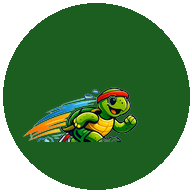
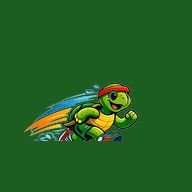
Fix Update,Impostazioni e Loghi
- Fix Vari

diff --git a/TurboTartaruga.html b/TurboTartaruga.html
@@ -196,7 +196,7 @@ input[type=range]::-webkit-slider-thumb{-webkit-appearance:none;width:22px;heigh
 <!-- WELCOME SCREEN -->
 <div id="screen-welcome" class="screen active">
   <div style="min-height:100vh;background:linear-gradient(155deg,#1B5E20,#2E7D32,#43A047,#66BB6A);display:flex;flex-direction:column;align-items:center;justify-content:center;text-align:center;padding:40px 24px;color:#fff">
-    <img src="logo-app.png" alt="TurboTartaruga" style="width:min(85vw,340px);animation:bnc 2s ease infinite alternate;margin-bottom:8px;filter:drop-shadow(0 4px 16px rgba(0,0,0,.25))">
+    <img src="logo-app.png" alt="TurboTartaruga" style="width:min(82vw,300px);max-height:42vh;object-fit:contain;animation:bnc 2s ease infinite alternate;margin-bottom:8px;filter:drop-shadow(0 4px 16px rgba(0,0,0,.25))">
     <p style="font-size:13px;opacity:.72;margin-bottom:48px;line-height:1.6;max-width:280px">Il tuo coach di fitness amichevole.<br>Breve, divertente, accessibile a tutti.</p>
     <button onclick="go('onboarding')"
       style="background:#fff;color:#1B5E20;border:none;border-radius:100px;padding:18px 38px;font-family:var(--ft);font-size:18px;font-weight:bold;cursor:pointer;box-shadow:0 6px 24px rgba(0,0,0,.2);transition:transform .15s"
@@ -264,7 +264,7 @@ input[type=range]::-webkit-slider-thumb{-webkit-appearance:none;width:22px;heigh
 <!-- HOME -->
 <div id="screen-home" class="screen">
   <div class="home-hero">
-    <img src="logo-turtle.png" alt="" style="height:min(18vw,72px);margin-bottom:6px;filter:drop-shadow(0 2px 8px rgba(0,0,0,.15))">
+    <img src="logo-turtle.png" alt="" style="height:clamp(70px,22vw,110px);margin-bottom:4px;filter:drop-shadow(0 3px 10px rgba(0,0,0,.25));display:block;margin-left:auto;margin-right:auto">
     <h2 id="home-greeting">Ciao!</h2><p id="home-phrase">Pronto per il tuo allenamento?</p>
     <div class="streak-chip">🔥 <span id="home-streak">0</span> giorni di fila!</div>
   </div>
@@ -531,7 +531,7 @@ input[type=range]::-webkit-slider-thumb{-webkit-appearance:none;width:22px;heigh
   <div class="hdr"><button class="hdr-back" onclick="go('home')">←</button><h1>🏅 Badge & XP</h1></div>
   <div class="scrollable">
     <div style="background:linear-gradient(135deg,var(--g4),var(--bg2));padding:18px;text-align:center;margin-bottom:12px">
-      <img src="logo-turtle.png" alt="" style="height:min(18vw,72px);margin-bottom:6px">
+      <img src="logo-turtle.png" alt="" style="height:clamp(60px,18vw,90px);margin-bottom:6px;display:block;margin-left:auto;margin-right:auto">
       <div style="font-family:var(--ft);font-size:19px;font-weight:bold" id="prf-name">-</div>
       <div style="font-size:var(--fs-xs);color:var(--tmid);margin-top:3px" id="prf-sub">-</div>
       <div class="level-badge mt10" id="prf-level">🥚 Tartarughina</div>
@@ -1958,7 +1958,16 @@ load();applyTheme();applyView();syncToggles();T.dur=12;
 if(P.name){
   if(!S.plan||S.plan.length===0)generatePlan();
   updateStreak();
-  const fabEl=document.getElementById('fab');if(fabEl){fabEl.classList.remove('fab-hidden');fabEl.style.display='flex';}
+  const fabEl=document.getElementById('fab');
+  if(fabEl){
+    fabEl.classList.remove('fab-hidden');
+    fabEl.style.cssText='display:flex!important;visibility:visible!important;opacity:1!important';
+  }
+  // Extra: force repaint after 100ms for Android Chrome
+  setTimeout(()=>{
+    const f=document.getElementById('fab');
+    if(f){f.style.display='none';void f.offsetHeight;f.style.display='flex';}
+  },150);
   go('home');
 }else go('welcome');
 
@@ -1998,9 +2007,22 @@ function checkForUpdate(){
       if(btn)btn.textContent='✅ Ok';
       setTimeout(()=>{if(btn)btn.textContent='🔄 Verifica';if(status)status.textContent='Tocca per verificare';},3000);
     }
-  }).catch(()=>{
-    if(status)status.textContent='⚠ Errore — controlla la connessione.';
-    if(btn)btn.textContent='🔄 Verifica';
+  }).catch((err)=>{
+    // On GitHub Pages this can fail for non-connection reasons
+    // Try a direct fetch to check if sw.js is reachable
+    fetch('./sw.js?t='+Date.now(),{cache:'no-store'})
+      .then(r=>{
+        if(r.ok){
+          if(status)status.textContent='✅ Connessione OK. Nessun aggiornamento trovato.';
+        } else {
+          if(status)status.textContent='⚠ File non raggiungibile ('+r.status+')';
+        }
+        if(btn)btn.textContent='🔄 Verifica';
+      })
+      .catch(()=>{
+        if(status)status.textContent='📶 Nessuna connessione internet.';
+        if(btn)btn.textContent='🔄 Verifica';
+      });
   });
 }
 

diff --git a/sw.js b/sw.js
@@ -1,6 +1,6 @@
 // TurboTartaruga Service Worker v0.5
 // Aggiorna questo numero ogni volta che pubblichi una nuova versione
-const CACHE_NAME = 'turbotartaruga-202604090939';
+const CACHE_NAME = 'turbotartaruga-20260409095527';
 
 // File da mettere in cache subito all'installazione
 const PRECACHE = [
